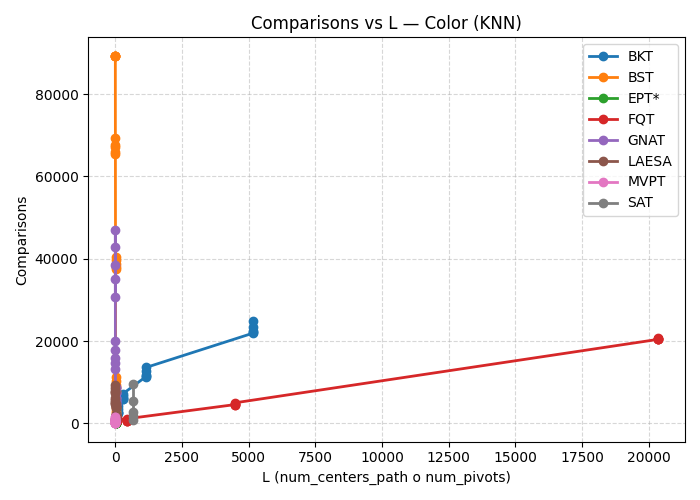
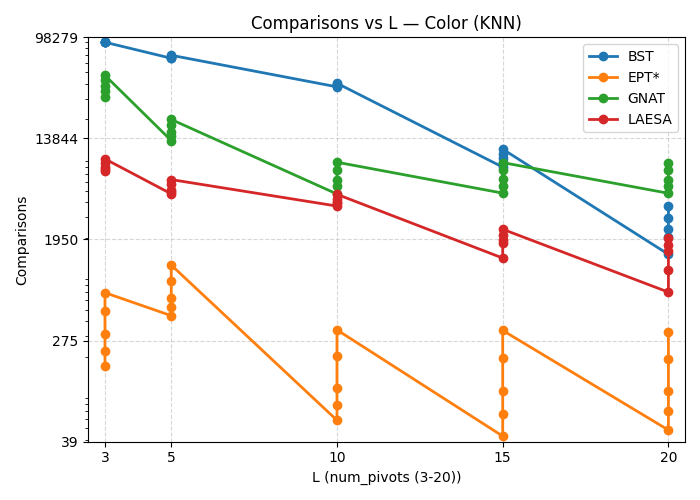
Update plotting functions to enhance Y-axis scaling strategies and restrict X-axis to canonical pivot ticks

diff --git a/main_memory/plot.py b/main_memory/plot.py
@@ -2,6 +2,7 @@ import json
 import matplotlib.pyplot as plt
 import numpy as np
 import os
+from matplotlib.ticker import FuncFormatter
 
 # ============================================================
 # Cargar archivo unificado (MEMORIA PRINCIPAL)
@@ -54,6 +55,70 @@ def plot_metric(group, group_name, metric, ylabel):
         if not subset:
             continue
 
+        # Recopilar valores Y y decidir estrategia a nivel de figura
+        all_raw_ys = [p[metric] for p in subset if p.get(metric) is not None]
+
+        def choose_yscale(values, ratio_threshold=50, cv_threshold=3.0):
+            nums = [float(v) for v in values if isinstance(v, (int, float)) and np.isfinite(v)]
+            if not nums:
+                return 'linear'
+            if any(v <= 0 for v in nums):
+                return 'symlog'
+            mn = min(nums); mx = max(nums)
+            if mn == 0:
+                return 'linear'
+            ratio = mx / mn if mn != 0 else float('inf')
+            mean = float(np.mean(nums)); std = float(np.std(nums))
+            cv = (std / abs(mean)) if mean != 0 else float('inf')
+            if ratio >= ratio_threshold or cv >= cv_threshold:
+                return 'log'
+            return 'linear'
+
+        def compute_linthresh(values, factor=0.1, default=1.0):
+            nums = [float(v) for v in values if isinstance(v, (int, float)) and np.isfinite(v)]
+            if not nums:
+                return default
+            pos = [v for v in nums if v > 0]
+            if not pos:
+                return default
+            med = float(np.median(pos))
+            lin = max(default, med * factor)
+            return lin
+
+        def decide_log_strategy(values, empty_decade_threshold=2, ratio_threshold=1e4):
+            nums = [float(v) for v in values if isinstance(v, (int, float)) and np.isfinite(v)]
+            if not nums:
+                return 'linear'
+            if any(v <= 0 for v in nums):
+                return 'symlog'
+            pos = [v for v in nums if v > 0]
+            if not pos:
+                return 'linear'
+            mn = min(pos); mx = max(pos)
+            if mn == 0:
+                return 'linear'
+            ratio = mx / mn if mn != 0 else float('inf')
+            min_dec = int(np.floor(np.log10(mn)))
+            max_dec = int(np.ceil(np.log10(mx)))
+            logs = np.log10(pos)
+            empty = 0
+            for d in range(min_dec, max_dec + 1):
+                if not any((logs >= d) & (logs < d + 1)):
+                    empty += 1
+            if empty >= empty_decade_threshold or ratio >= ratio_threshold:
+                return 'log1p'
+            return 'log'
+
+        fig_strategy = decide_log_strategy(all_raw_ys)
+
+        # For main-memory plots, restrict X to canonical pivot ticks
+        pivot_ticks = [3, 5, 10, 15, 20]
+        pivot_set = set(pivot_ticks)
+        # Determinar etiqueta del eje X para todo el subset: priorizar num_pivots en [3,20]
+        x_label = "num_pivots (3-20)" if any((p.get("L_label") == "num_pivots") for p in subset) else (
+            "num_centers_path" if any((p.get("L_label") == "num_centers_path") for p in subset) else "L"
+        )
+
         for idx in indexes:
             points = [d for d in subset if d["index"] == idx]
             if not points:
@@ -61,19 +126,72 @@ def plot_metric(group, group_name, metric, ylabel):
 
             # Ordenar por L ascendente
             points = sorted(points, key=lambda x: x["L"])
+            # Filtrar para que solo se grafiquen los pivotes canonicos
+            points = [p for p in points if p["L"] in pivot_set]
             xs = [p["L"] for p in points]
             ys = [p[metric] for p in points]
 
-            # Etiqueta del eje x según prioridad
-            x_label = "num_pivots (3-20)" if any((p["L_label"] == "num_pivots") for p in points) else "num_centers_path"
-
-            plt.plot(xs, ys, marker="o", linewidth=2, markersize=6, label=idx)
+            # Graficar según estrategia
+            if fig_strategy == 'log1p':
+                ys_plot = np.log1p(ys)
+                plt.plot(xs, ys_plot, marker="o", linewidth=2, markersize=6, label=idx)
+            elif fig_strategy == 'log':
+                pairs = [(x, y) for (x, y) in zip(xs, ys) if isinstance(y, (int, float)) and y > 0]
+                if not pairs:
+                    continue
+                xs2, ys2 = zip(*pairs)
+                plt.plot(xs2, ys2, marker="o", linewidth=2, markersize=6, label=idx)
+            else:  # linear or symlog
+                plt.plot(xs, ys, marker="o", linewidth=2, markersize=6, label=idx)
 
         plt.xlabel(f"L ({x_label})")
         plt.ylabel(ylabel)
         plt.title(f"{ylabel} vs L — {ds} ({group_name})")
         plt.grid(True, ls="--", alpha=0.5)
         plt.legend()
+
+        # Forcing xticks to canonical pivot ticks and setting x-limits
+        try:
+            plt.xticks(pivot_ticks)
+            plt.xlim(min(pivot_ticks) - 0.5, max(pivot_ticks) + 0.5)
+        except Exception:
+            pass
+        # Ajustar eje Y según la estrategia elegida
+        if fig_strategy == 'log1p':
+            pos = [v for v in all_raw_ys if isinstance(v, (int, float)) and np.isfinite(v)]
+            if pos:
+                ymin = min(pos); ymax = max(pos)
+                lymin = np.log1p(ymin); lymax = np.log1p(ymax)
+                if lymin == lymax:
+                    lymin *= 0.9; lymax *= 1.1
+                plt.ylim(lymin, lymax)
+                try:
+                    n_ticks = min(6, max(2, int(np.ceil(lymax - lymin)) + 1))
+                    yticks = np.linspace(lymin, lymax, num=n_ticks)
+                    plt.yticks(yticks, [f"{np.expm1(t):.0f}" if np.expm1(t) >= 1 else f"{np.expm1(t):.2g}" for t in yticks])
+                except Exception:
+                    pass
+        elif fig_strategy == 'log':
+            pos = [v for v in all_raw_ys if isinstance(v, (int, float)) and np.isfinite(v) and v > 0]
+            if pos:
+                ymin = min(pos); ymax = max(pos)
+                if ymin == ymax:
+                    ymin = ymin * 0.9 if ymin != 0 else 0.1
+                    ymax = ymax * 1.1
+                else:
+                    ymin *= 0.9; ymax *= 1.1
+                plt.yscale('log')
+                plt.ylim(ymin, ymax)
+                try:
+                    n_ticks = min(6, max(2, int(np.ceil(np.log10(ymax / ymin))) + 1))
+                    yticks = np.logspace(np.log10(ymin), np.log10(ymax), num=n_ticks)
+                    plt.yticks(yticks, [f"{t:.0f}" if t >= 1 else f"{t:.2g}" for t in yticks])
+                except Exception:
+                    pass
+        elif fig_strategy == 'symlog':
+            lt = compute_linthresh(all_raw_ys)
+            plt.yscale('symlog', linthresh=lt)
+
         plt.tight_layout()
 
         filename = f"{out_dir}/{ds}_{metric}.png"
